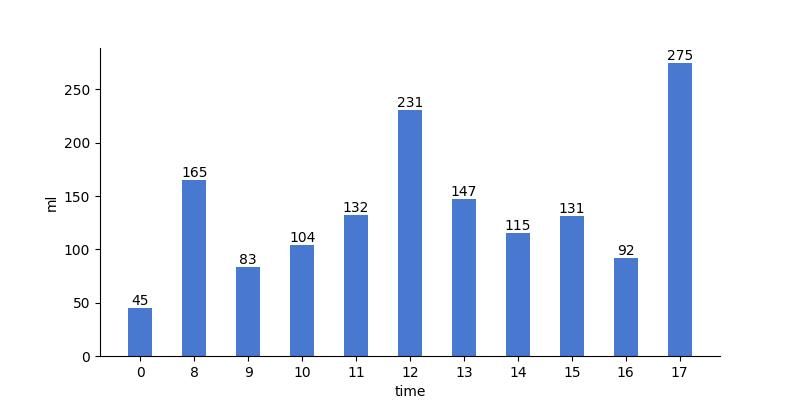
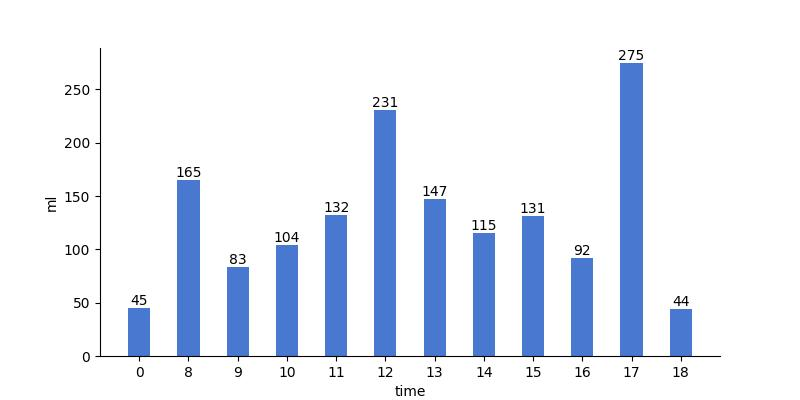
update

diff --git a/README.md b/README.md
@@ -5,12 +5,12 @@
 
 | 今日总饮水量 | 每小时平均饮水量 |
 | :----: | :----: |
-| 1520 | 138 |
+| 1564 | 130 |
 </div>
 
-| 日期 | 00:15:11 | 08:05:23 | 08:05:31 | 08:29:08 | 09:14:49 | 10:02:48 | 10:56:02 | 11:21:28 | 11:55:18 | 12:23:22 | 12:53:37 | 13:08:54 | 13:39:31 | 13:52:08 | 14:08:40 | 14:31:33 | 15:02:04 | 15:43:23 | 16:11:07 | 16:54:37 | 17:24:12 | 17:44:53 |
-| :----: | :----: | :----: | :----: | :----: | :----: | :----: | :----: | :----: | :----: | :----: | :----: | :----: | :----: | :----: | :----: | :----: | :----: | :----: | :----: | :----: | :----: | :----: |
-| 2022-02-25 | 45 | 5 | 100 | 60 | 83 | 54 | 50 | 55 | 77 | 200 | 31 | 35 | 44 | 68 | 48 | 67 | 69 | 62 | 52 | 40 | 200 | 75 |
+| 日期 | 00:15:11 | 08:05:23 | 08:05:31 | 08:29:08 | 09:14:49 | 10:02:48 | 10:56:02 | 11:21:28 | 11:55:18 | 12:23:22 | 12:53:37 | 13:08:54 | 13:39:31 | 13:52:08 | 14:08:40 | 14:31:33 | 15:02:04 | 15:43:23 | 16:11:07 | 16:54:37 | 17:24:12 | 17:44:53 | 18:22:45 |
+| :----: | :----: | :----: | :----: | :----: | :----: | :----: | :----: | :----: | :----: | :----: | :----: | :----: | :----: | :----: | :----: | :----: | :----: | :----: | :----: | :----: | :----: | :----: | :----: |
+| 2022-02-25 | 45 | 5 | 100 | 60 | 83 | 54 | 50 | 55 | 77 | 200 | 31 | 35 | 44 | 68 | 48 | 67 | 69 | 62 | 52 | 40 | 200 | 75 | 44 |
 
 # 近30日饮水数据
 
